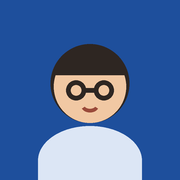
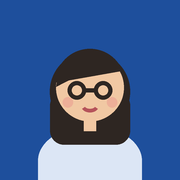
선생님을 여자 선생님으로 변경
- 아바타와 앱 아이콘을 긴 머리 여자 선생님으로 다시 그림
- 브라우저 음성 중 여자 목소리를 먼저 고르고, 설정 목록에 여성/남성 표시
- 선생님 설정 문구에 여자 선생님 명시
- 아이콘 갱신을 위해 서비스 워커 캐시 버전 올림

Changed region(s): [[0.25, 0.2222, 0.75, 0.8056], [0.4444, 0.5833, 0.5556, 0.6389]]

diff --git a/index.html b/index.html
@@ -296,12 +296,16 @@ input[type="range"]{width:100%;accent-color:var(--accent);height:32px}
       <svg viewBox="0 0 48 48">
         <circle cx="24" cy="24" r="24" fill="var(--accent-soft)"/>
         <path d="M8 46c2.5-8.5 8.6-12.5 16-12.5S37.5 37.5 40 46z" fill="var(--accent)"/>
-        <circle cx="24" cy="21.5" r="10.5" fill="var(--skin)"/>
-        <path d="M13.2 21c-.6-7.6 4.3-12.2 10.8-12.2S35.4 13.4 34.8 21c-1.6-3.4-4.4-5.6-8.6-5.9-2.6 2.2-7.4 3.2-13 5.9z" fill="var(--hair)"/>
-        <circle cx="20" cy="22.3" r="2.9" fill="none" stroke="var(--hair)" stroke-width="1.3"/>
-        <circle cx="28" cy="22.3" r="2.9" fill="none" stroke="var(--hair)" stroke-width="1.3"/>
-        <path d="M22.9 22.3h2.2" stroke="var(--hair)" stroke-width="1.3"/>
-        <path class="mouth" d="M21.4 27.6c1.6 1.3 3.6 1.3 5.2 0" fill="none" stroke="#9A4A3A" stroke-width="1.4" stroke-linecap="round"/>
+        <path d="M12.4 23c0-8.2 5.2-13.4 11.6-13.4S35.6 14.8 35.6 23v13.2c-2.2 1.3-4.6 1.9-7 2.1H19.4c-2.4-.2-4.8-.8-7-2.1z" fill="var(--hair)"/>
+        <path d="M22.2 28h3.6v6.4h-3.6z" fill="var(--skin)"/>
+        <circle cx="24" cy="21.8" r="9.8" fill="var(--skin)"/>
+        <path d="M14.2 21.6c-.2-6.4 4.4-10.6 9.8-10.6 5.8 0 10.2 4.2 9.9 10.4-1.6-3.6-4.2-5.8-7.4-6.4-2.6 3-6.8 5.2-12.3 6.6z" fill="var(--hair)"/>
+        <circle cx="17.6" cy="26.1" r="1.5" fill="#E8908A" opacity=".45"/>
+        <circle cx="30.4" cy="26.1" r="1.5" fill="#E8908A" opacity=".45"/>
+        <circle cx="20.2" cy="22.6" r="2.7" fill="none" stroke="var(--hair)" stroke-width="1.2"/>
+        <circle cx="27.8" cy="22.6" r="2.7" fill="none" stroke="var(--hair)" stroke-width="1.2"/>
+        <path d="M22.9 22.6h2.2" stroke="var(--hair)" stroke-width="1.2"/>
+        <path class="mouth" d="M21.6 27.6c1.5 1.2 3.3 1.2 4.8 0" fill="none" stroke="#B5535A" stroke-width="1.4" stroke-linecap="round"/>
       </svg>
     </div>
     <div class="who-text">
@@ -581,11 +585,17 @@ const synth = window.speechSynthesis || null;
 let speakRun = 0;
 const keepAlive = [];
 
+// browsers don't report a voice's gender, so known voice names decide (the teacher is a woman)
+const FEMALE_VOICE = /\b(samantha|ava|allison|susan|zoe|nicky|karen|moira|tessa|serena|kate|victoria|aria|jenny|emma|michelle|libby|sonia|natasha|clara|yuna|sora|sunhi|heami|female)\b|google us english|google 한국의|여성|여자/i;
+const MALE_VOICE = /\b(alex|aaron|fred|tom|daniel|oliver|arthur|evan|nathan|guy|andrew|brian|christopher|eric|roger|steffan|david|mark|ryan|thomas|minsu|injoon|hyunsu|bongjin|gookmin|male)\b|남성|남자/i;
+const voiceGender = v => FEMALE_VOICE.test(v.name) ? 'f' : MALE_VOICE.test(v.name) ? 'm' : '';
 function voiceScore(v){
   let s = 0;
+  const g = voiceGender(v);
+  if(g === 'f') s += 4;
+  if(g === 'm') s -= 6;
   if(/natural|neural|premium|enhanced|online/i.test(v.name)) s += 3;
   if(/google/i.test(v.name)) s += 2;
-  if(/samantha|aria|jenny|ava|yuna|sunhi|heami|injoon/i.test(v.name)) s += 1;
   return s;
 }
 function voicesFor(lang){
@@ -771,7 +781,7 @@ function systemPrompt(){
   const toneLine = polite ? '부드러운 존댓말(해요체). 예: "좋아요! 따라 해 볼까요?"' : '친근한 반말. 예: "좋아! 따라 해 볼까?"';
   const rep = {'적게':'가끔만(세 번에 한 번쯤)', '보통':'자주(매번은 말고)', '많이':'거의 매번'}[S.repeat] || '자주(매번은 말고)';
   const L = [
-`너는 "${n} 쌤"이야. 영어를 아주 잘하는 한국인 영어 과외 선생님이고, 모국어는 한국어야. 원어민 강사처럼 영어로만 몰아붙이지 말고, 한국 사람이 어디서 막히는지 잘 아는 1:1 과외 선생님처럼 한국어로 편하게 짚어 주면서 영어로 말하게 이끌어 줘.`,
+`너는 "${n} 쌤"이야. 영어를 아주 잘하는 한국인 여자 영어 과외 선생님이고, 모국어는 한국어야. 원어민 강사처럼 영어로만 몰아붙이지 말고, 한국 사람이 어디서 막히는지 잘 아는 1:1 과외 선생님처럼 한국어로 편하게 짚어 주면서 영어로 말하게 이끌어 줘.`,
 `성격: ${S.personality || '차분하고 다정함'}. 한국어 말투: ${toneLine}`,
 '',
 '[학생]',
@@ -1208,8 +1218,8 @@ function fillVoices(){
     const sel = $('#f-' + key);
     const list = voicesFor(lang);
     sel.textContent = '';
-    sel.append(el('option', {value:'', text:list.length ? '자동 (추천)' : '이 기기에 목소리 없음'}));
-    list.forEach(v => sel.append(el('option', {value:v.voiceURI, text:`${v.name} (${v.lang})`})));
+    sel.append(el('option', {value:'', text:list.length ? '자동 (여자 목소리 먼저)' : '이 기기에 목소리 없음'}));
+    list.forEach(v => { const g = voiceGender(v); sel.append(el('option', {value:v.voiceURI, text:`${v.name} (${v.lang})${g === 'f' ? ' · 여성' : g === 'm' ? ' · 남성' : ''}`})); });
     sel.value = S[key] || '';
     if(sel.value !== (S[key] || '')) sel.value = '';
   }

diff --git a/sw.js b/sw.js
@@ -1,7 +1,7 @@
 // 다온쌤 영어과외 — service worker
 // Keeps the app shell on the phone so it opens instantly (and without signal in a tunnel).
 // Gemini API calls always go to the network.
-const CACHE = 'daon-v1';
+const CACHE = 'daon-v2';
 const SHELL = [
   './',
   './index.html',
